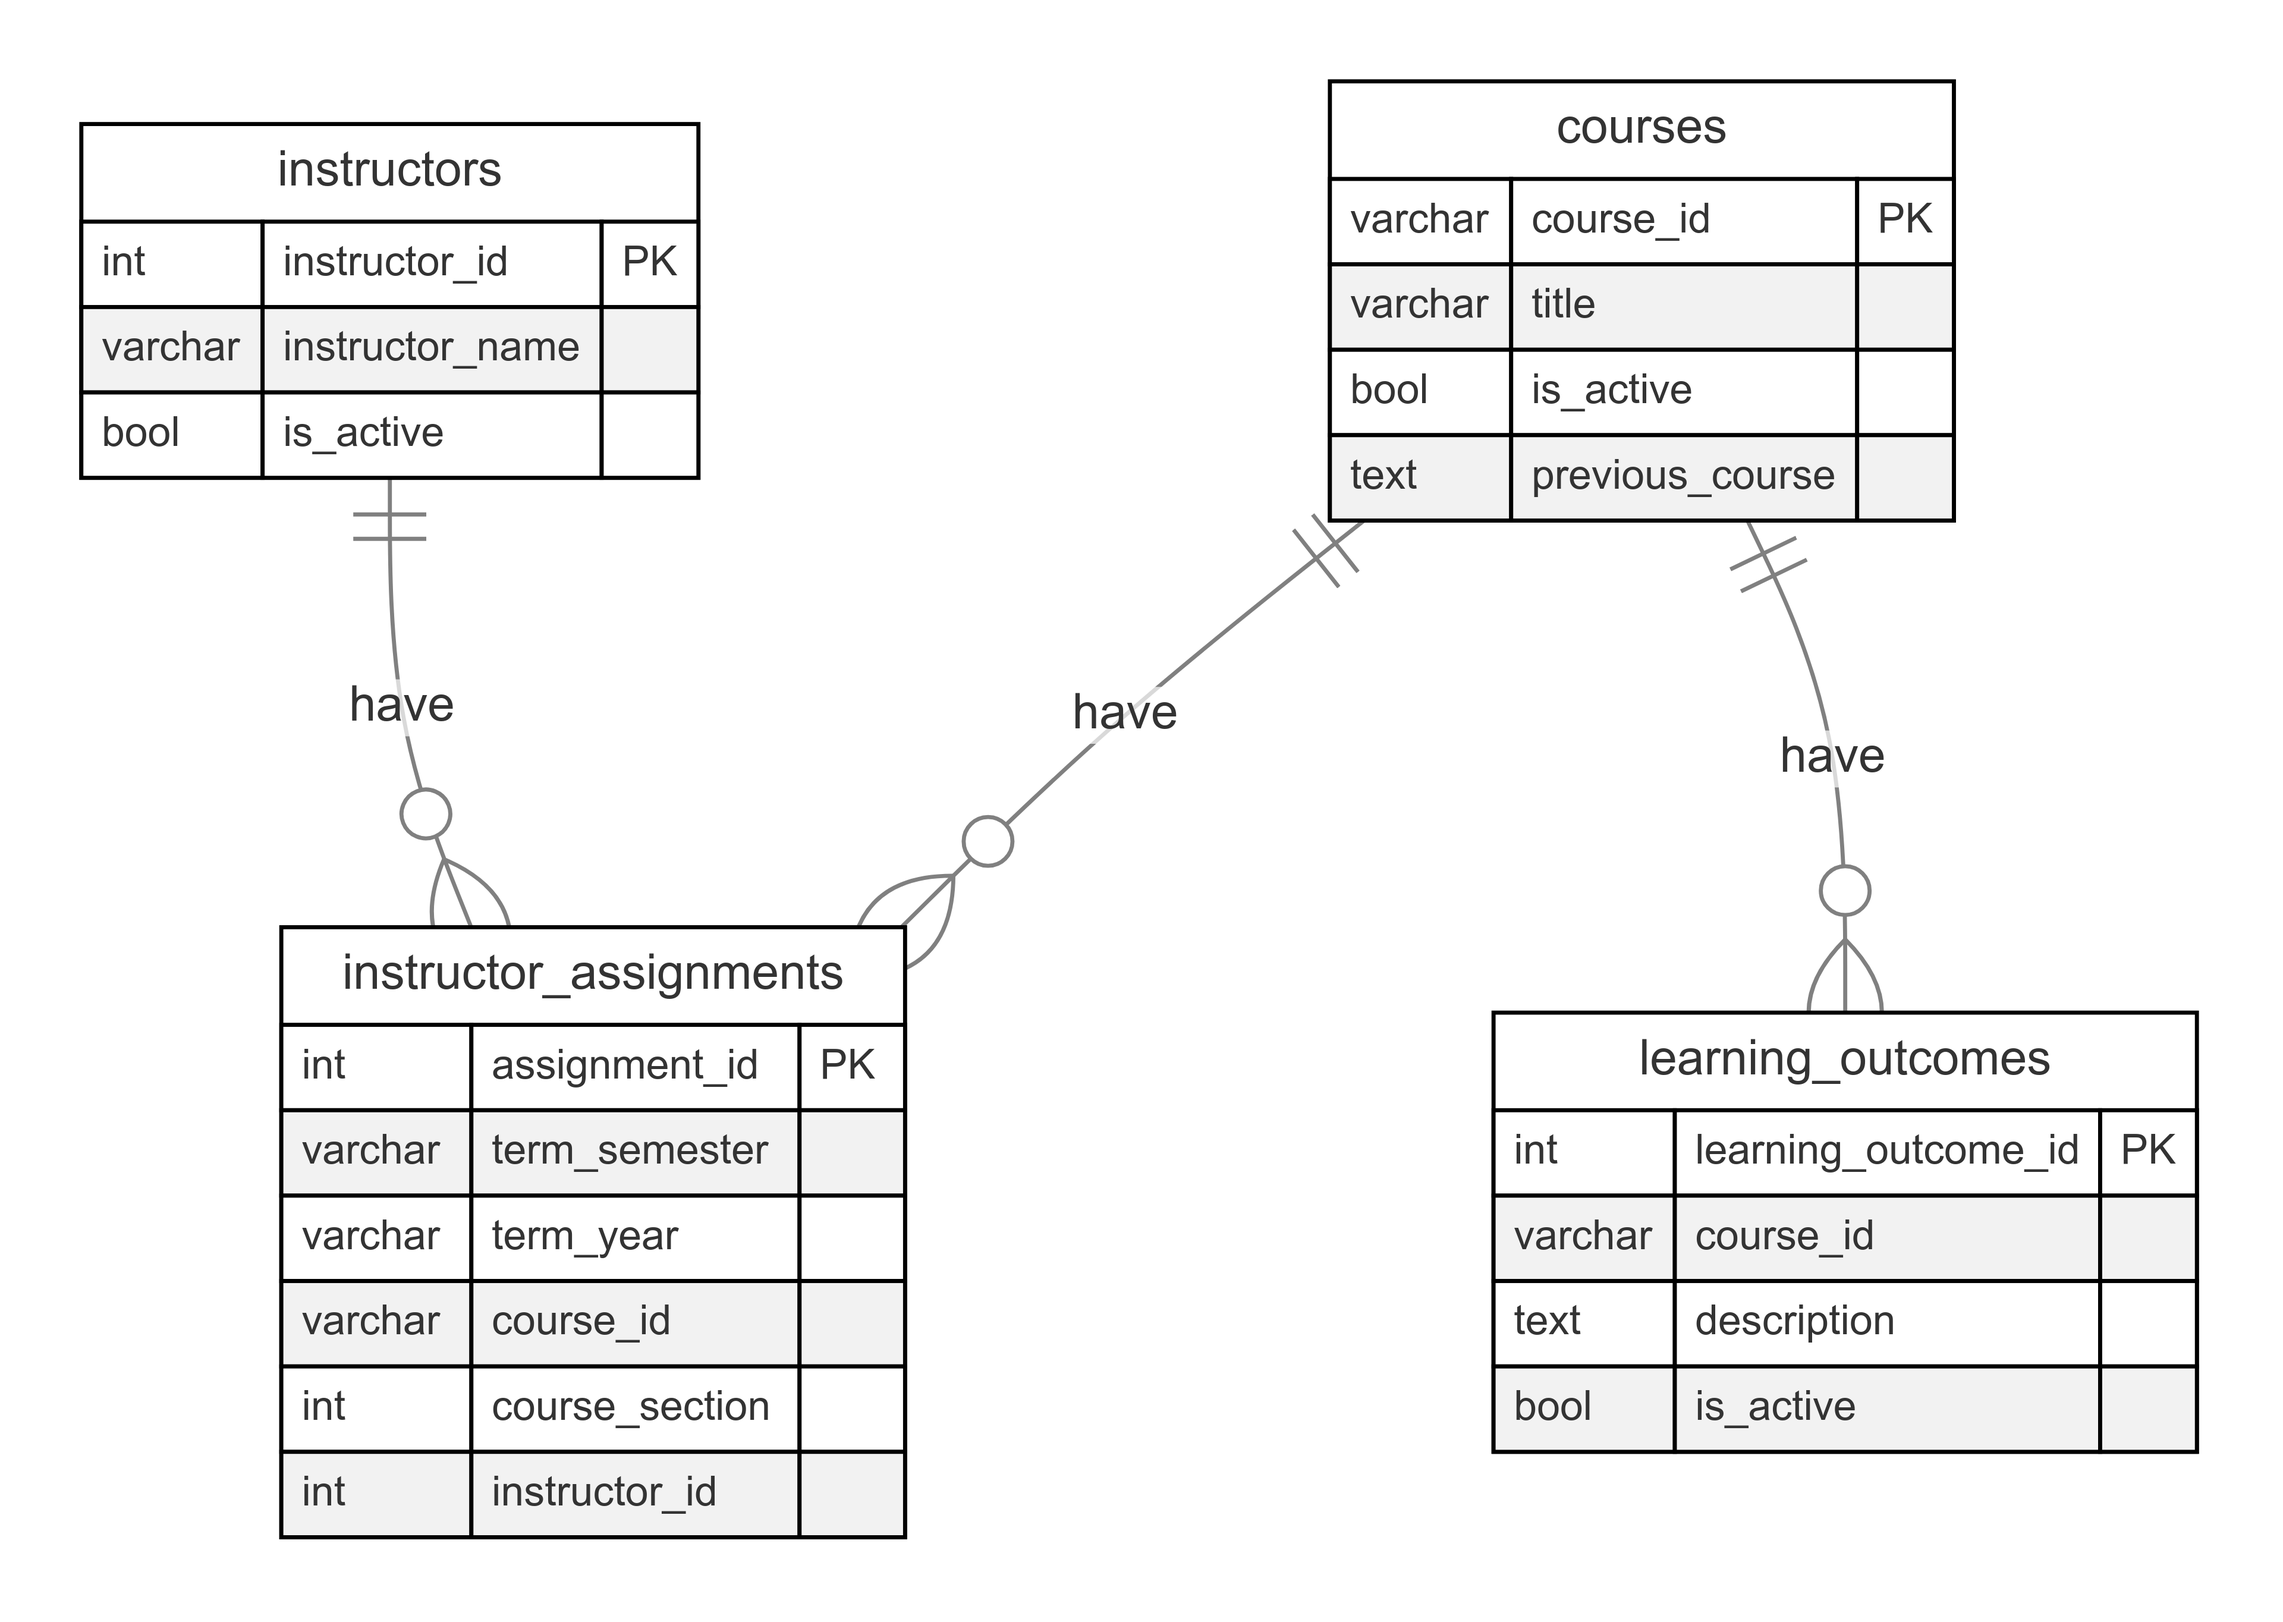
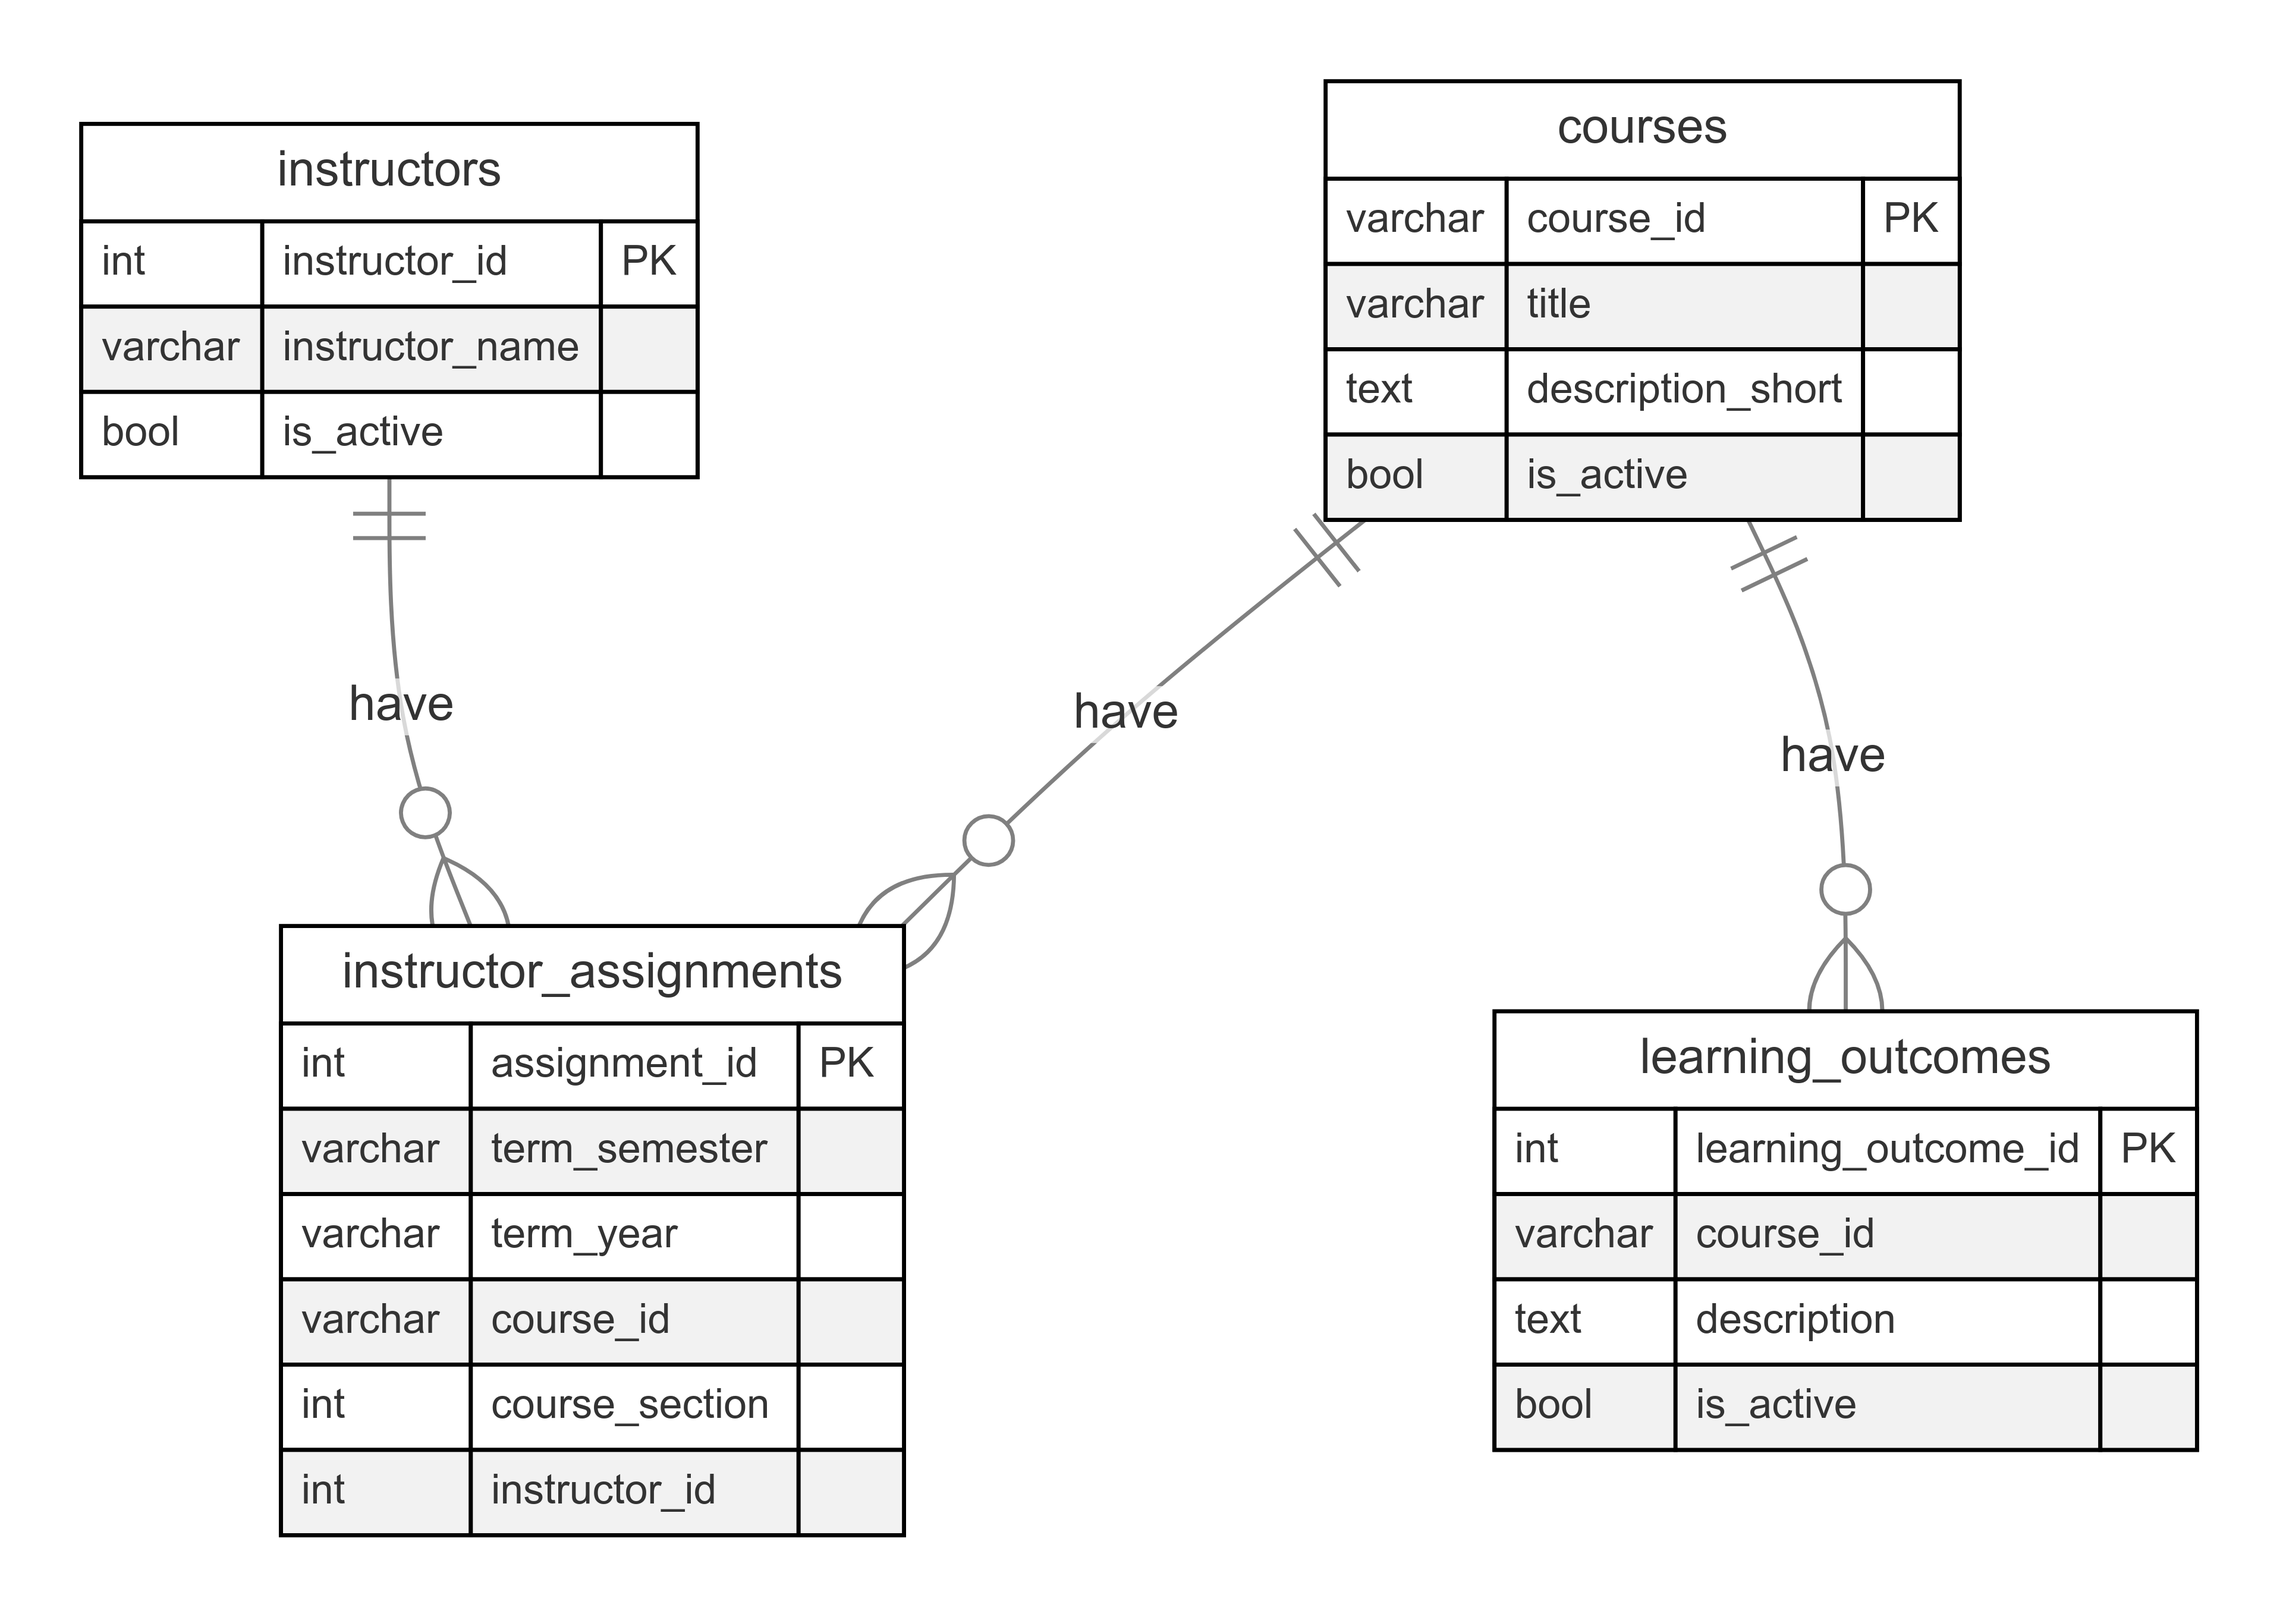
Adding clean csv files and fixed mermaid

diff --git a/.ipynb_checkpoints/Part_1_Design_Questions-checkpoint.md b/.ipynb_checkpoints/Part_1_Design_Questions-checkpoint.md
@@ -73,8 +73,8 @@ erDiagram
     courses {
         varchar course_id PK
         varchar title
+        text description_short
         bool is_active
-        text previous_course
     }
 
     instructor_assignments {

diff --git a/Part_1_Design_Questions.md b/Part_1_Design_Questions.md
@@ -73,8 +73,8 @@ erDiagram
     courses {
         varchar course_id PK
         varchar title
+        text description_short
         bool is_active
-        text previous_course
     }
 
     instructor_assignments {
